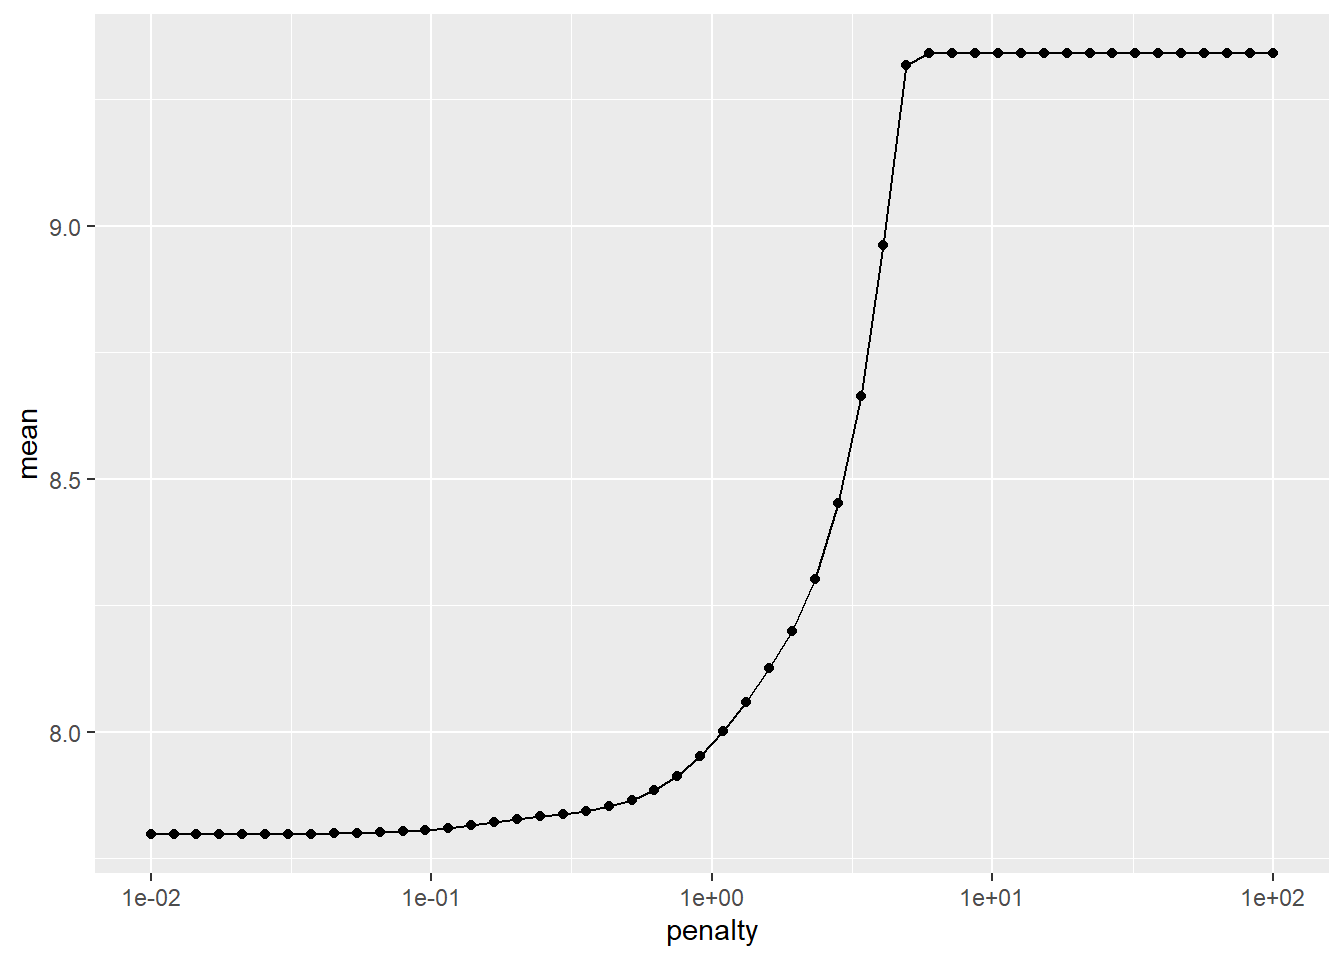
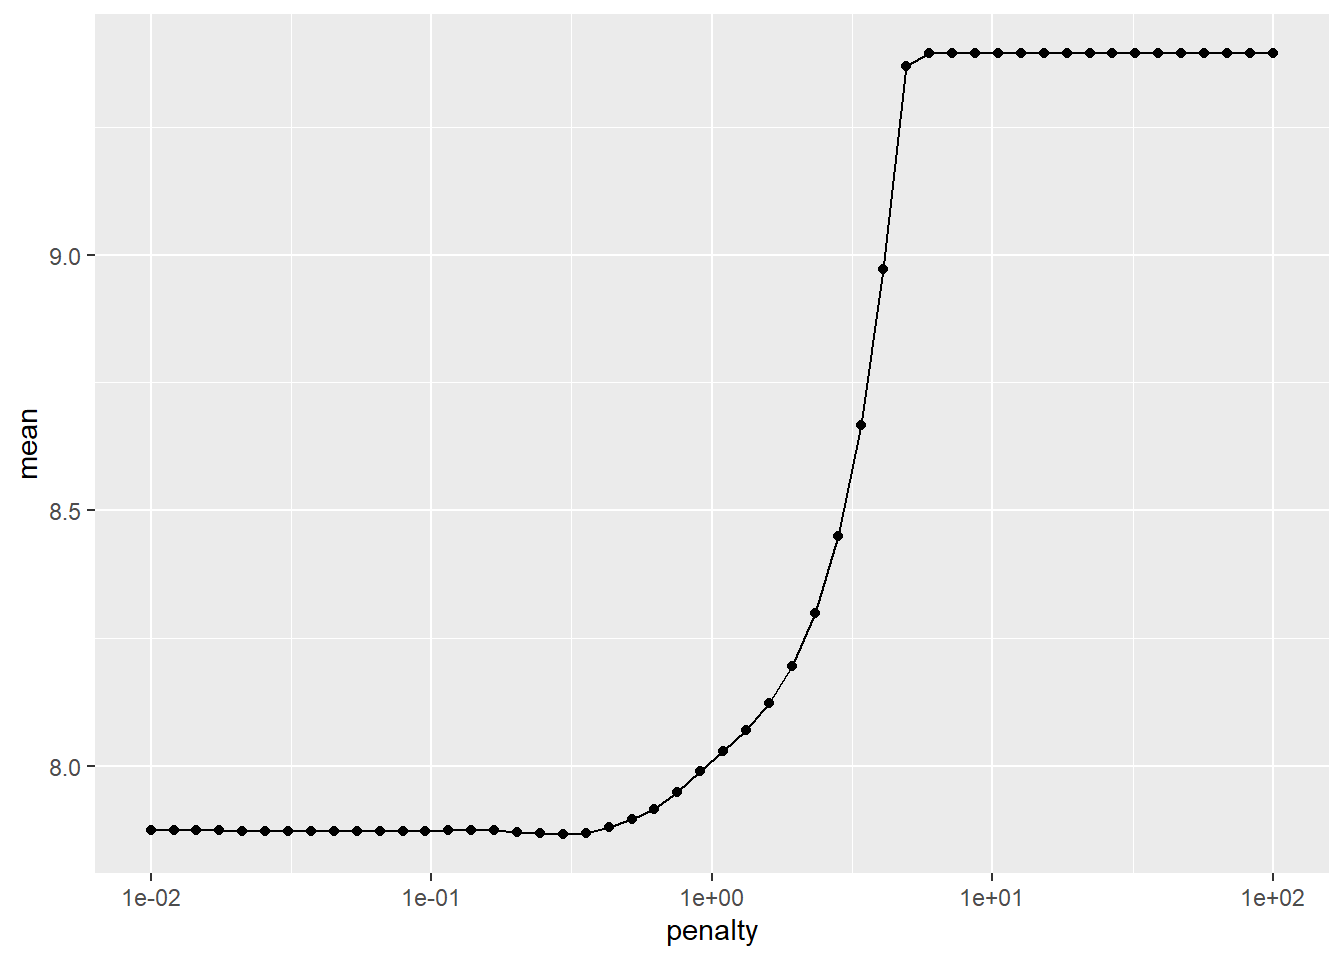
new link 3

diff --git a/docs/FinalProject.html b/docs/FinalProject.html
@@ -686,7 +686,7 @@ New names:
 <pre><code># A tibble: 1 × 2
   penalty .config              
     &lt;dbl&gt; &lt;chr&gt;                
-1    0.01 Preprocessor1_Model01</code></pre>
+1   0.295 Preprocessor1_Model19</code></pre>
 </div>
 <div class="sourceCode cell-code" id="cb20"><pre class="sourceCode r code-with-copy"><code class="sourceCode r"><span id="cb20-1"><a href="#cb20-1" aria-hidden="true" tabindex="-1"></a>lasso_wflow_final <span class="ot">&lt;-</span> kcc_lasso_wflow <span class="sc">|&gt;</span></span>
 <span id="cb20-2"><a href="#cb20-2" aria-hidden="true" tabindex="-1"></a>  <span class="fu">finalize_workflow</span>(<span class="at">parameters =</span> lasso_best) </span></code><button title="Copy to Clipboard" class="code-copy-button"><i class="bi"></i></button></pre></div>
@@ -703,16 +703,16 @@ New names:
 <pre><code># A tibble: 10 × 3
    term        estimate penalty
    &lt;chr&gt;          &lt;dbl&gt;   &lt;dbl&gt;
- 1 (Intercept)   27.8      0.01
- 2 PtA           -1.02     0.01
- 3 FirstD         1.12     0.01
- 4 TotYd          3.89     0.01
- 5 PassY          0        0.01
- 6 RushY          0.966    0.01
- 7 FirstD_Alwd    2.08     0.01
- 8 TotYd_Alwd     0        0.01
- 9 PassY_Alwd     0.813    0.01
-10 RushY_Alwd    -0.500    0.01</code></pre>
+ 1 (Intercept)   27.8     0.295
+ 2 PtA            0       0.295
+ 3 FirstD         0.733   0.295
+ 4 TotYd          3.71    0.295
+ 5 PassY          0       0.295
+ 6 RushY          0.848   0.295
+ 7 FirstD_Alwd    1.28    0.295
+ 8 TotYd_Alwd     0       0.295
+ 9 PassY_Alwd     0.481   0.295
+10 RushY_Alwd    -0.338   0.295</code></pre>
 </div>
 </div>
 <p>Here we can see that important variables include Points Allowed (PtA), First Down Count (FirstD), Total Yards (TotYd), total Rusing Yards (RushY), First Downs Allowed (FirstD_Alwd), Passing Yards Allowed (PassY_Alwd) and Rushing Yards Allowed (RushY_Alwd). We will proceed to use these variables in our following models.</p>
